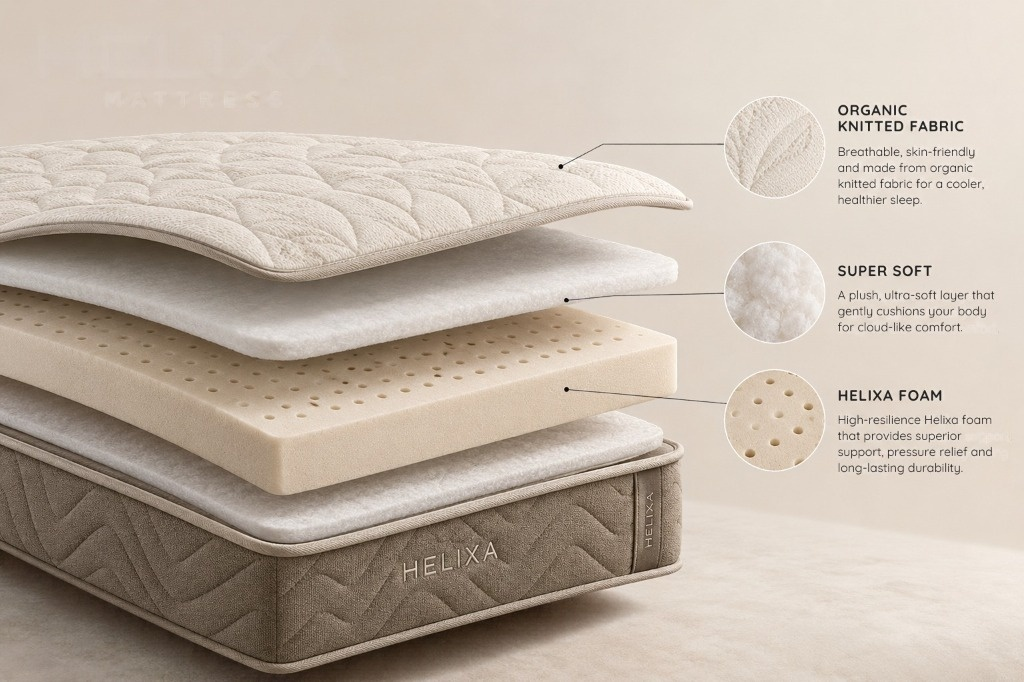
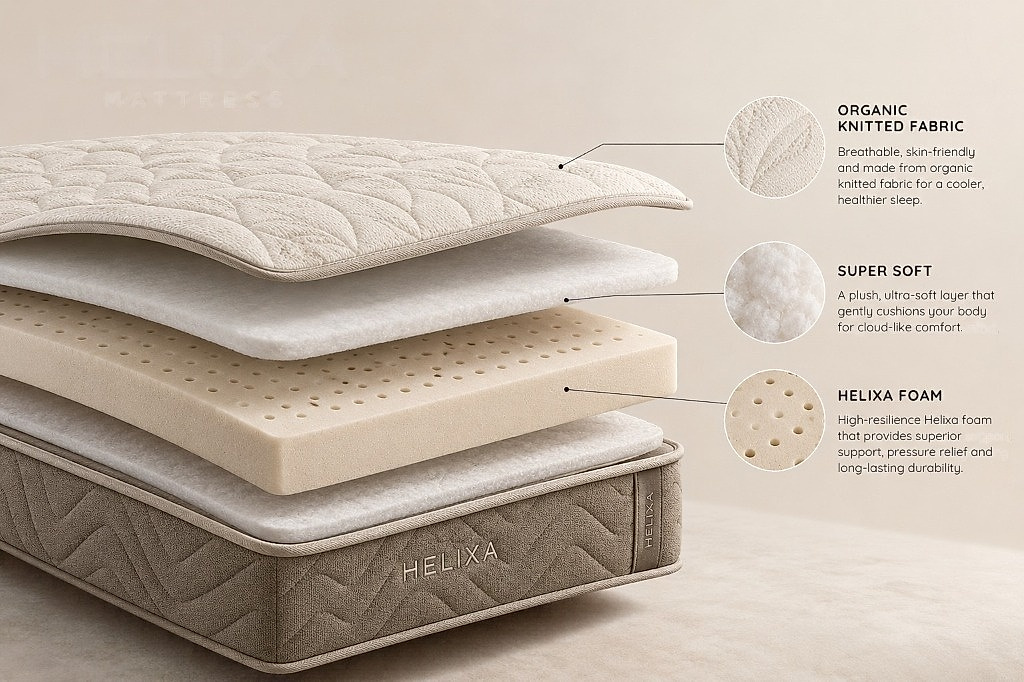
image quality improved

diff --git a/components/ProductsSection.tsx b/components/ProductsSection.tsx
@@ -1458,9 +1458,11 @@ export default function ProductsSection() {
                 >
                   <div style={{ position: 'relative', width: '100%', height: '340px' }}>
                     <Image
+                      quality={95}
                       src={selectedProduct.image}
                       alt={selectedProduct.name}
                       fill
+                      sizes="(max-width: 992px) 100vw, 560px"
                       style={{
                         objectFit: 'cover',
                       }}
@@ -1791,6 +1793,7 @@ function ProductCard({
         }}
       >
         <Image
+          quality={95}
           src={product.image}
           alt={product.name}
           fill

diff --git a/components/Footer.tsx b/components/Footer.tsx
@@ -42,6 +42,7 @@ export default function Footer() {
           <div>
             <div style={{ display: 'flex', alignItems: 'center', marginBottom: '20px' }}>
               <Image
+                quality={95}
                 src="/images/logo.png"
                 alt="TopSleep Mattress"
                 width={180}

diff --git a/components/Navbar.tsx b/components/Navbar.tsx
@@ -96,6 +96,7 @@ export default function Navbar({ view }: { view: string }) {
           }}
         >
           <Image
+            quality={95}
             src="/images/logo.png"
             alt="TopSleep Mattress"
             width={180}

diff --git a/components/Hero.tsx b/components/Hero.tsx
@@ -118,6 +118,7 @@ export default function Hero() {
           >
             {slides.map((s, i) => (
               <Image
+                quality={95}
                 key={s.src}
                 src={s.src}
                 alt={s.alt}

diff --git a/next.config.ts b/next.config.ts
@@ -2,6 +2,7 @@ import type { NextConfig } from "next";
 
 const nextConfig: NextConfig = {
   images: {
+    qualities: [75, 95],
     remotePatterns: [
       {
         protocol: "https",
